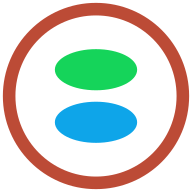
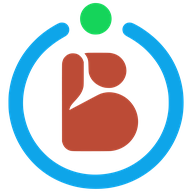
feat: adopt the orbit-B negative space mark
Replaces N1b — a rust ring around two stacked ellipses — with the
orbit-B: an open sky ring carrying a lime particle at its crown, and a
rust core whose separated chambers leave a B in the white space. Assets
come from marketing/logo/orbit-b-negative-space-curve/, whose SPEC.md
holds the geometry, the trace method, and the small-size measurements.

BrandMark inlines three Bezier paths sharing one alignment transform,
on a 0 0 100 100 viewBox. Its test pins the new geometry the way it
pinned the old: viewBox, path order, fill per path, and each path's data
by length and opening segment, so a swapped or truncated outline fails.

The public icons render from the tight crop, where the mark keeps its
shape down to favicon sizes. index.html needs no change: file names are
unchanged, so every link resolves as before.

diff --git a/packages/web/src/ui/BrandMark.tsx b/packages/web/src/ui/BrandMark.tsx
@@ -9,12 +9,21 @@ interface BrandMarkProps {
 }
 
 /**
+ * Maps the traced outlines onto the viewBox: the outer pair places the mark at
+ * the source aspect ratio, the inner pair is the tracer's own y-flip. All three
+ * paths share it, so the shapes stay registered to each other.
+ */
+const TRANSFORM =
+  'translate(0.926888,-0.005946) scale(0.07814190) ' +
+  'translate(0.000000,1280.000000) scale(0.100000,-0.100000)';
+
+/**
  * Brand mark — the Breatic logo as an inlined SVG, with no link or wordmark so
  * each chrome (project top bar, studio top bar) wraps it in its own home link.
- * A rust ring (#BC4B36) holds two flattened ellipses stacked vertically: lime
- * (#15D45A) above, sky (#0EA5E9) below. The two ellipses imply the bowls of a
- * B without drawing one — spelling the letter would put the mark in the pool
- * of class-9 letter marks it needs to stay clear of.
+ * An open sky ring (#0EA5E9) carries a lime particle (#15D45A) at its crown,
+ * and a rust core (#BC4B36) sits inside: a vertical anchor, a small upper
+ * chamber held apart from it, and a fuller lower one. The white space between
+ * them reads as a B on second glance rather than first.
  *
  * Single source of the mark, shared by both top bars so neither duplicates
  * the SVG. Lives in `ui/` (the cross-feature atom layer) because both
@@ -23,10 +32,11 @@ interface BrandMarkProps {
  *
  * The logo is the only place the brand raw colors are allowed (ADR 14
  * amended + brand-guard CI); chrome elsewhere uses neutral / primary.
- * Geometry: viewBox `-50 -50 100 100`, ring `r=38` with a 5.5 stroke, each
- * ellipse `rx=18 ry=9` offset 11.5 either side of centre. Every element sets
- * fill/stroke explicitly (raster backend compatibility). It is scaled by
- * `size` alone (the viewBox is fixed), so it stays crisp at any px.
+ * Geometry: viewBox `0 0 100 100`, three Bezier outlines traced from
+ * `marketing/logo/orbit-b-negative-space-curve/reference/approved-effect.png`,
+ * whose SPEC.md holds the full spec. Every element sets fill explicitly
+ * (raster backend compatibility). It is scaled by `size` alone (the viewBox is
+ * fixed), so it stays crisp at any px.
  * @param props - Brand-mark props.
  * @param props.size - Rendered px size (square); defaults to 28.
  * @returns the inlined brand SVG mark.
@@ -36,21 +46,29 @@ export function BrandMark({ size = 28 }: BrandMarkProps): React.JSX.Element {
     <svg
       width={size}
       height={size}
-      viewBox='-50 -50 100 100'
+      viewBox='0 0 100 100'
       aria-hidden='true'
       focusable='false'
       data-testid='top-bar-logo'
     >
-      <circle
-        cx='0'
-        cy='0'
-        r='38'
-        fill='none'
-        stroke='#BC4B36'
-        strokeWidth='5.5'
+      <path
+        id='blue'
+        fill='#0EA5E9'
+        transform={TRANSFORM}
+        d='M3973 10975 c-137 -37 -610 -314 -913 -535 -264 -192 -447 -348 -689 -585 -619 -608 -1065 -1290 -1361 -2085 -120 -320 -206 -647 -265 -1005 -61 -372 -69 -478 -69 -900 0 -409 11 -545 70 -899 191 -1135 745 -2206 1564 -3027 554 -555 1196 -965 1955 -1247 432 -161 850 -262 1310 -316 456 -54 1010 -50 1470 10 1192 155 2328 703 3178 1533 626 611 1120 1408 1397 2256 200 613 281 1167 267 1814 -8 373 -37 634 -107 983 -237 1177 -836 2216 -1749 3032 -397 355 -870 681 -1301 897 -142 71 -226 93 -335 86 -117 -7 -201 -44 -281 -122 -140 -137 -176 -317 -104 -509 37 -98 130 -186 287 -270 575 -312 1044 -672 1435 -1105 574 -635 911 -1282 1097 -2107 82 -367 105 -582 106 -999 0 -373 -12 -520 -71 -835 -80 -426 -194 -775 -379 -1158 -109 -224 -163 -320 -301 -527 -423 -639 -975 -1148 -1650 -1523 -846 -470 -1905 -671 -2879 -546 -926 119 -1778 503 -2471 1115 -698 617 -1211 1455 -1433 2344 -105 422 -145 727 -144 1110 2 910 297 1848 821 2610 263 383 552 695 922 994 308 249 501 380 949 640 94 56 145 101 193 175 152 234 69 545 -177 669 -89 45 -241 59 -342 32z'
       />
-      <ellipse cx='0' cy='-11.5' rx='18' ry='9' fill='#15D45A' />
-      <ellipse cx='0' cy='11.5' rx='18' ry='9' fill='#0EA5E9' />
+      <path
+        id='green'
+        fill='#15D45A'
+        transform={TRANSFORM}
+        d='M6125 12233 c-205 -28 -414 -135 -569 -290 -305 -305 -381 -780 -188 -1168 121 -245 337 -432 592 -515 102 -33 192 -43 344 -37 170 5 256 26 401 97 614 298 766 1103 302 1596 -163 173 -341 270 -566 309 -77 14 -244 18 -316 8z'
+      />
+      <path
+        id='red'
+        fill='#BC4B36'
+        transform={TRANSFORM}
+        d='M5770 9050 c-52 -3 -125 -12 -163 -19 l-67 -13 20 -27 c65 -82 142 -211 168 -278 56 -145 64 -208 72 -573 8 -325 11 -365 47 -475 126 -399 473 -709 928 -831 134 -35 392 -45 528 -20 423 80 762 387 882 800 168 583 -185 1215 -773 1381 -202 57 -205 58 -902 60 -355 1 -688 -1 -740 -5z M4684 9010 c-73 -13 -174 -52 -241 -91 -73 -44 -188 -159 -232 -232 -47 -80 -89 -211 -101 -320 -8 -63 -10 -867 -8 -2542 l3 -2450 23 -79 c65 -231 210 -399 417 -486 145 -60 152 -60 1420 -60 726 0 1192 4 1265 11 683 62 1275 473 1569 1089 333 697 188 1537 -363 2108 -158 164 -304 271 -511 375 -377 189 -806 242 -1186 146 -190 -48 -225 -64 -859 -401 -223 -119 -598 -318 -835 -443 -236 -125 -441 -235 -454 -243 -22 -15 -23 -15 -18 3 3 11 12 43 18 70 37 151 102 247 350 515 299 325 419 505 497 747 58 177 57 165 57 978 l0 750 -24 70 c-42 125 -90 204 -176 291 -133 134 -267 193 -455 199 -58 2 -128 0 -156 -5z'
+      />
     </svg>
   );
 }

diff --git a/packages/web/src/ui/__tests__/BrandMark.test.tsx b/packages/web/src/ui/__tests__/BrandMark.test.tsx
@@ -6,6 +6,17 @@ import { render, screen } from '@testing-library/react';
 
 import { BrandMark } from '@web/ui/BrandMark';
 
+/** What each path contributes, and enough of its data to catch a swap. */
+const PATHS = [
+  { id: 'blue', fill: '#0EA5E9', length: 1038, head: 'M3973 10975 c-137 -37 -610 -314' },
+  { id: 'green', fill: '#15D45A', length: 219, head: 'M6125 12233 c-205 -28 -414 -135' },
+  { id: 'red', fill: '#BC4B36', length: 874, head: 'M5770 9050 c-52 -3 -125 -12 -163' },
+] as const;
+
+/** Shared by all three paths: the alignment transform onto the viewBox. */
+const TRANSFORM =
+  'translate(0.926888,-0.005946) scale(0.07814190) translate(0.000000,1280.000000) scale(0.100000,-0.100000)';
+
 describe('BrandMark', () => {
   it('renders the inlined brand SVG mark, hidden from the a11y tree', () => {
     render(<BrandMark />);
@@ -16,32 +27,28 @@ describe('BrandMark', () => {
     expect(mark).toHaveAttribute('aria-hidden', 'true');
   });
 
-  it('draws the N1b geometry: a rust ring holding a lime and a sky ellipse', () => {
+  it('draws the orbit-B geometry: an open ring, a particle, and the core', () => {
     render(<BrandMark />);
     const mark = screen.getByTestId('top-bar-logo');
     // The mark is the registrable identity, so its geometry is pinned here:
-    // a drift in any of these numbers is a different logo, not a restyle.
-    expect(mark).toHaveAttribute('viewBox', '-50 -50 100 100');
+    // a drift in any of this is a different logo, not a restyle. Path data is
+    // checked by length and opening segment — enough to catch a swapped or
+    // truncated path while leaving this file readable.
+    expect(mark).toHaveAttribute('viewBox', '0 0 100 100');
 
-    const ring = mark.querySelector('circle');
-    expect(ring).toHaveAttribute('r', '38');
-    expect(ring).toHaveAttribute('stroke', '#BC4B36');
-    expect(ring).toHaveAttribute('stroke-width', '5.5');
-    expect(ring).toHaveAttribute('fill', 'none');
+    const paths = [...mark.querySelectorAll('path')];
+    expect(paths).toHaveLength(PATHS.length);
 
-    const ellipses = [...mark.querySelectorAll('ellipse')];
-    expect(ellipses).toHaveLength(2);
-    for (const el of ellipses) {
-      expect(el).toHaveAttribute('cx', '0');
-      expect(el).toHaveAttribute('rx', '18');
-      expect(el).toHaveAttribute('ry', '9');
+    for (const [i, expected] of PATHS.entries()) {
+      const path = paths[i];
+      expect(path).toHaveAttribute('id', expected.id);
+      expect(path).toHaveAttribute('fill', expected.fill);
+      expect(path).toHaveAttribute('transform', TRANSFORM);
+
+      const d = path?.getAttribute('d') ?? '';
+      expect(d).toHaveLength(expected.length);
+      expect(d.startsWith(expected.head)).toBe(true);
     }
-    // Upper bowl is lime, lower is sky; SVG y grows downward.
-    const [upper, lower] = ellipses;
-    expect(upper).toHaveAttribute('cy', '-11.5');
-    expect(upper).toHaveAttribute('fill', '#15D45A');
-    expect(lower).toHaveAttribute('cy', '11.5');
-    expect(lower).toHaveAttribute('fill', '#0EA5E9');
   });
 
   it('defaults to 28px and honors an explicit size', () => {
